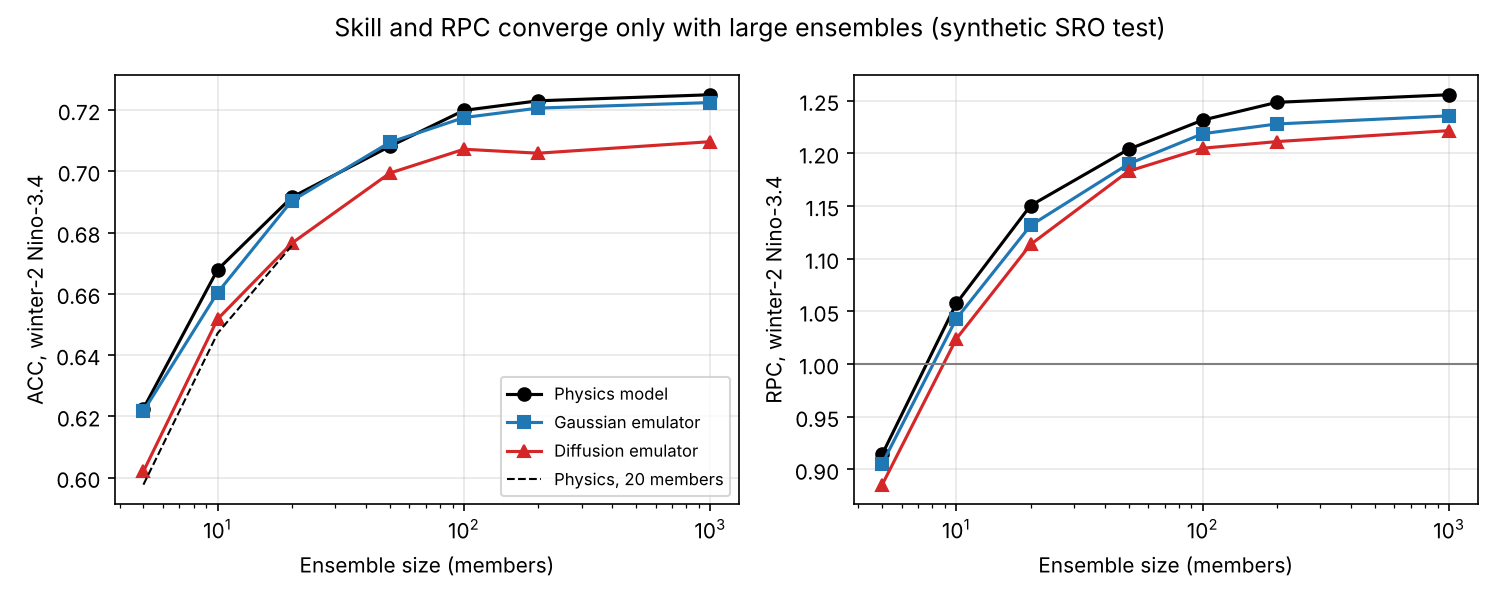
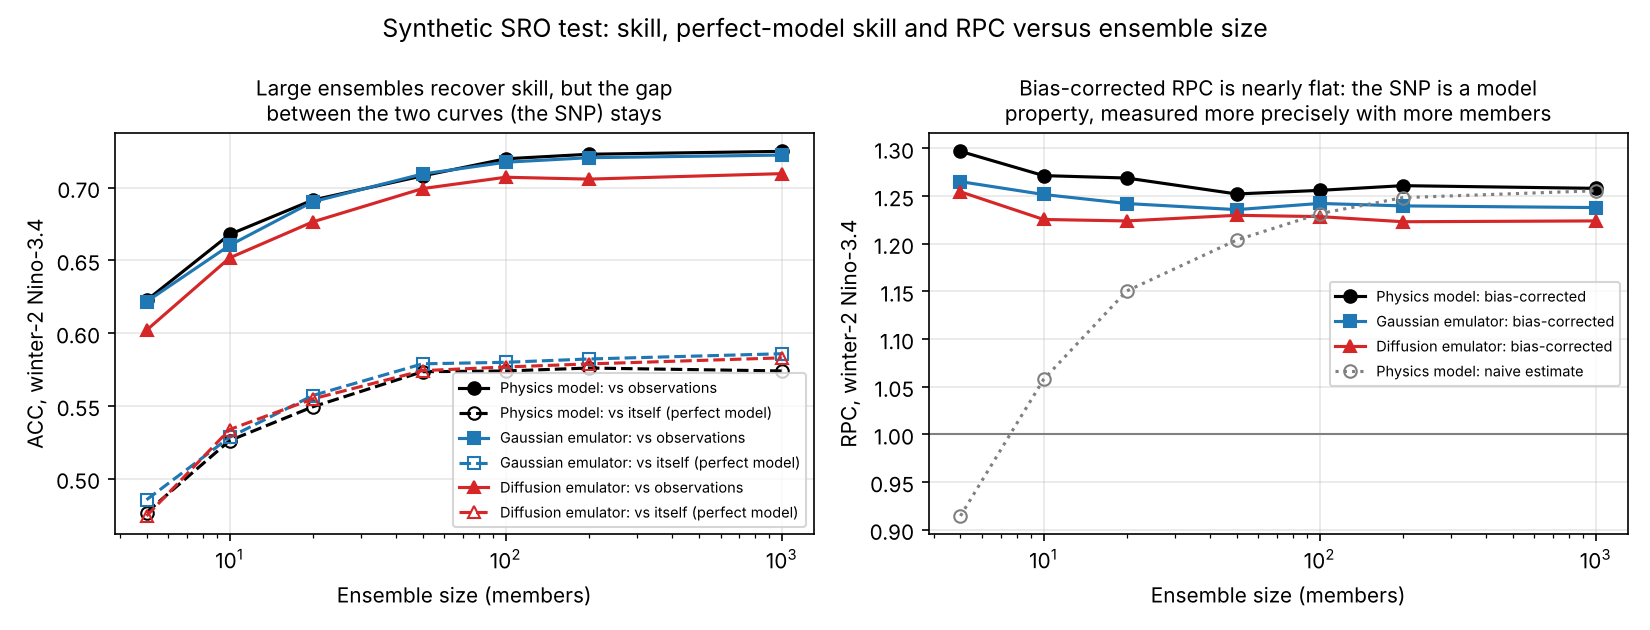
Separate the SNP from small-ensemble sampling bias
Add perfect-model ACC, infinite-ensemble ACC and a bias-corrected RPC.
Large ensembles recover skill but leave the gap between skill against
observations and perfect-model skill; corrected RPC is nearly constant
with ensemble size. Update figure 1 and README.

diff --git a/demo_sro.py b/demo_sro.py
@@ -91,17 +91,19 @@ def main(quick=False, outdir="results"):
         row = {}
         for name, (eT, _) in ens.items():
             e = M.winter_mean(eT, start_month, w)
-            row[name] = {"acc": M.acc(e, ob), "rpc": M.rpc(e, ob), "snr": M.model_snr(e),
-                         "spread_skill": M.spread_skill(e, ob)}
+            row[name] = {"acc": M.acc(e, ob), "acc_perfect": M.perfect_model_acc(e),
+                         "rpc": M.rpc(e, ob), "rpc_corrected": M.rpc_corrected(e, ob),
+                         "snr": M.model_snr(e), "spread_skill": M.spread_skill(e, ob)}
         table[f"winter_{w + 1}"] = row
 
-    print("\nWinter (DJF) Nino-3.4 skill on test years")
-    print(f"{'ensemble':<16}" + "".join(f"{'W' + str(w + 1) + ' ACC':>9}{'RPC':>7}{'SNR':>7}" for w in range(3)))
+    print("\nWinter (DJF) Nino-3.4 on test years. ACC = vs observations; ACCpm = model vs itself;")
+    print("RPCc = bias-corrected RPC. SNP: ACC > ACCpm and RPCc > 1.")
+    print(f"{'ensemble':<16}" + "".join(f"{'W' + str(w + 1) + ' ACC':>9}{'ACCpm':>7}{'RPCc':>7}" for w in range(3)))
     for name in ens:
         line = f"{name:<16}"
         for w in range(3):
             r = table[f"winter_{w + 1}"][name]
-            line += f"{r['acc']:9.2f}{r['rpc']:7.2f}{r['snr']:7.2f}"
+            line += f"{r['acc']:9.2f}{r['acc_perfect']:7.2f}{r['rpc_corrected']:7.2f}"
         print(line)
 
     # ROM fingerprints (same estimator for every dataset)
@@ -161,25 +163,31 @@ def main(quick=False, outdir="results"):
     ob2 = M.winter_mean(obs_T[te], start_month, 1)
     conv = {k: M.convergence(M.winter_mean(v[0], start_month, 1), ob2, sizes, n_boot=50)
             for k, v in ens.items() if k != "physics_20"}
-    conv20 = M.convergence(M.winter_mean(hT[te], start_month, 1), ob2, [5, 10, 20], n_boot=50)
-
-    fig, ax = plt.subplots(1, 2, figsize=(10, 4))
+    fig, ax = plt.subplots(1, 2, figsize=(11, 4.2))
     styles = {f"physics_{n_big}": ("k", "o", "Physics model"),
               f"gaussian_{n_big}": ("tab:blue", "s", "Gaussian emulator"),
               f"diffusion_{n_big}": ("tab:red", "^", "Diffusion emulator")}
     for k, c in conv.items():
         col, mk, lab = styles[k]
-        ax[0].plot(c["size"], c["acc"], color=col, marker=mk, label=lab)
-        ax[1].plot(c["size"], c["rpc"], color=col, marker=mk, label=lab)
-    ax[0].plot(conv20["size"], conv20["acc"], "k--", lw=1, label="Physics, 20 members")
-    for a, yl in zip(ax, ("ACC, winter-2 Nino-3.4", "RPC, winter-2 Nino-3.4")):
+        ax[0].plot(c["size"], c["acc"], color=col, marker=mk, label=f"{lab}: vs observations")
+        ax[0].plot(c["size"], c["acc_perfect"], color=col, marker=mk, ls="--", mfc="none",
+                   label=f"{lab}: vs itself (perfect model)")
+        ax[1].plot(c["size"], c["rpc_corrected"], color=col, marker=mk, label=f"{lab}: bias-corrected")
+    cp = conv[f"physics_{n_big}"]
+    ax[1].plot(cp["size"], cp["rpc"], color="0.5", ls=":", marker="o", mfc="none",
+               label="Physics model: naive estimate")
+    ax[0].set_ylabel("ACC, winter-2 Nino-3.4")
+    ax[1].set_ylabel("RPC, winter-2 Nino-3.4")
+    ax[0].set_title("Large ensembles recover skill, but the gap\nbetween the two curves (the SNP) stays", fontsize=10)
+    ax[1].set_title("Bias-corrected RPC is nearly flat: the SNP is a model\nproperty, measured more precisely with more members", fontsize=10)
+    for a in ax:
         a.set_xscale("log")
         a.set_xlabel("Ensemble size (members)")
-        a.set_ylabel(yl)
         a.grid(alpha=0.3)
     ax[1].axhline(1, color="gray", lw=1)
-    ax[0].legend(fontsize=8)
-    fig.suptitle("Skill and RPC converge only with large ensembles (synthetic SRO test)")
+    ax[0].legend(fontsize=7)
+    ax[1].legend(fontsize=7)
+    fig.suptitle("Synthetic SRO test: skill, perfect-model skill and RPC versus ensemble size")
     fig.tight_layout()
     fig.savefig(os.path.join(outdir, "fig1_convergence.png"), dpi=150)
 

diff --git a/ensosnp/metrics.py b/ensosnp/metrics.py
@@ -25,10 +25,62 @@ def model_snr(ens):
 
 
 def rpc(ens, obs):
+    """Naive RPC: the ensemble-mean variance is used as the signal variance.
+
+    With few members the ensemble mean still contains noise (variance noise/N), so the
+    signal is overestimated and RPC is biased low. Use rpc_corrected for small ensembles.
+    """
     em = ens.mean(axis=1)
     var_signal = em.var()
     var_total = ens.var()  # variance of individual members across starts and members
     return float(acc(ens, obs) / np.sqrt(var_signal / var_total))
+
+
+def signal_variance(ens):
+    """Unbiased estimate of the model's predictable (signal) variance.
+
+    var(ensemble mean) = var(signal) + var(noise)/N, so subtract the noise term.
+    """
+    n = ens.shape[1]
+    em = ens.mean(axis=1)
+    var_noise = ens.var(axis=1, ddof=1).mean()
+    return float(max(em.var() - var_noise / n, 1e-12))
+
+
+def acc_infinite(ens, obs):
+    """Estimate of the ACC an infinitely large ensemble would reach.
+
+    A finite ensemble mean contains residual noise, which lowers its correlation with
+    observations: r_N = r_inf * sqrt(var_signal / var(ensemble mean)). Inverting gives r_inf.
+    """
+    em_var = ens.mean(axis=1).var()
+    return float(acc(ens, obs) * np.sqrt(em_var / signal_variance(ens)))
+
+
+def rpc_corrected(ens, obs):
+    """RPC with the small-ensemble bias removed from both numerator and denominator.
+
+    Uses the infinite-ensemble ACC and the unbiased signal variance, so its expected value
+    does not depend on ensemble size: a larger ensemble measures the SNP more precisely
+    (less scatter), but does not make it go away.
+    """
+    return float(acc_infinite(ens, obs) / np.sqrt(signal_variance(ens) / ens.var()))
+
+
+def perfect_model_acc(ens, max_members=10):
+    """Skill of the model at predicting itself.
+
+    Each of up to max_members members in turn is treated as 'truth' and correlated with
+    the mean of the remaining members. The SNP shows up as acc(ens, obs) > this value.
+    """
+    n = ens.shape[1]
+    if n < 2:
+        return float("nan")
+    vals = []
+    for j in range(min(n, max_members)):
+        rest = np.delete(ens, j, axis=1).mean(axis=1)
+        vals.append(np.corrcoef(rest, ens[:, j])[0, 1])
+    return float(np.mean(vals))
 
 
 def spread_skill(ens, obs):
@@ -42,23 +94,26 @@ def spread_skill(ens, obs):
 def convergence(ens, obs, sizes, n_boot=200, seed=0):
     """ACC and RPC as a function of ensemble size, by resampling members.
 
-    Returns dict of arrays (len(sizes),) with mean ACC, RPC and model SNR.
+    Returns dict of arrays (len(sizes),): ACC against observations, perfect-model ACC
+    (the model predicting itself), naive RPC, bias-corrected RPC and model SNR.
     """
     rng = np.random.default_rng(seed)
     n_members = ens.shape[1]
-    out = {"size": np.asarray(sizes), "acc": [], "rpc": [], "snr": []}
+    keys = ("acc", "acc_perfect", "rpc", "rpc_corrected", "snr")
+    out = {"size": np.asarray(sizes), **{k: [] for k in keys}}
     for n in sizes:
-        a, r, s = [], [], []
+        vals = {k: [] for k in keys}
         for _ in range(n_boot):
             idx = rng.choice(n_members, size=n, replace=n > n_members)
             sub = ens[:, idx]
-            a.append(acc(sub, obs))
-            r.append(rpc(sub, obs))
-            s.append(model_snr(sub))
-        out["acc"].append(np.mean(a))
-        out["rpc"].append(np.mean(r))
-        out["snr"].append(np.mean(s))
-    for k in ("acc", "rpc", "snr"):
+            vals["acc"].append(acc(sub, obs))
+            vals["acc_perfect"].append(perfect_model_acc(sub))
+            vals["rpc"].append(rpc(sub, obs))
+            vals["rpc_corrected"].append(rpc_corrected(sub, obs))
+            vals["snr"].append(model_snr(sub))
+        for k in keys:
+            out[k].append(np.nanmean(vals[k]))
+    for k in keys:
         out[k] = np.asarray(out[k])
     return out
 

diff --git a/README.md b/README.md
@@ -44,32 +44,48 @@ python demo_sro.py           # about 1 min; writes figures and results.json to r
 
 ## Results (full run, winter-mean Niño-3.4 on test years)
 
-| Ensemble | Winter 2 ACC | Winter 2 RPC | Winter 3 ACC | Winter 3 RPC |
-|---|---|---|---|---|
-| Physics, 20 members | 0.68 | 1.13 | 0.42 | 1.08 |
-| Physics, 1000 members (reference) | 0.72 | 1.26 | 0.52 | 1.53 |
-| Gaussian emulator, 1000 members | 0.72 | 1.24 | 0.53 | 1.52 |
-| Diffusion emulator, 1000 members | 0.71 | 1.22 | 0.51 | 1.43 |
+ACC = ensemble mean vs observations; perfect-model ACC = the model predicting itself (one
+member as truth, the rest as forecast); RPC = bias-corrected ratio of predictable components.
+An SNP means ACC > perfect-model ACC and RPC > 1.
+
+| Ensemble | W2 ACC | W2 perfect-model ACC | W2 RPC | W3 ACC | W3 perfect-model ACC | W3 RPC |
+|---|---|---|---|---|---|---|
+| Physics, 20 members | 0.68 | 0.55 | 1.25 | 0.42 | 0.31 | 1.53 |
+| Physics, 1000 members (reference) | 0.72 | 0.55 | 1.26 | 0.52 | 0.33 | 1.54 |
+| Gaussian emulator, 1000 members | 0.72 | 0.61 | 1.24 | 0.53 | 0.40 | 1.54 |
+| Diffusion emulator, 1000 members | 0.71 | 0.61 | 1.22 | 0.51 | 0.33 | 1.44 |
 
 What this shows:
 
-1. **The SNP is real in the test bed.** With 1000 members, RPC reaches 1.26 in winter 2 and
-   1.53 in winter 3. The model predicts the observations better than it predicts itself.
-2. **Small ensembles hide skill and understate the SNP.** With 20 members, winter-3 skill is
-   0.42 instead of 0.52, and the RPC is underestimated too (`results/fig1_convergence.png`).
-3. **Emulators trained on 20 members recover the 1000-member answer.** Both emulators
-   reproduce the large-ensemble skill and RPC from held-out initial states.
-4. **The ROM fingerprint catches fidelity errors.** With only 16 principal components, both
+1. **The SNP is real in the test bed.** The model predicts the observations (ACC 0.72 in
+   winter 2) better than it predicts itself (0.55). RPC is 1.26 in winter 2 and 1.54 in
+   winter 3.
+2. **Large ensembles reduce the damage the SNP does to skill, but not the SNP itself.**
+   Because each member carries a weak signal, many members are needed to average out the
+   noise: winter-3 skill rises from 0.42 with 20 members to 0.52 with 1000. Perfect-model skill
+   rises too, so the gap between the two curves stays (`results/fig1_convergence.png`, left).
+   The SNP comes from the model's physics (here, too much damping and noise); more members
+   estimate it more precisely but do not remove it. That is why the correction step is needed.
+3. **Naive RPC is biased low for small ensembles.** Using the ensemble-mean variance as the
+   signal variance, and the finite-ensemble ACC, both understate the SNP when there are few
+   members: the naive winter-2 RPC rises from 0.91 at 5 members to 1.26 at 1000. Correcting
+   both terms for residual noise (`metrics.rpc_corrected`) gives a nearly constant RPC,
+   between 1.25 and 1.30 at every ensemble size (`results/fig1_convergence.png`, right).
+4. **Emulators trained on 20 members recover the 1000-member answer.** Both emulators
+   reproduce the large-ensemble skill and RPC from held-out initial states. The Gaussian
+   emulator's members are slightly too predictable (perfect-model ACC 0.61 vs 0.55 in winter 2
+   and 0.40 vs 0.33 in winter 3); the diffusion emulator matches winter 3 better.
+5. **The ROM fingerprint catches fidelity errors.** With only 16 principal components, both
    emulators matched skill and RPC but underestimated the noise amplitudes σT and σh by about
    one third, because PCA truncation smoothed month-to-month variability. With 48 components
    (99.8% of variance) the fingerprint matches the physics model
    (`results/fig2_rom_fingerprint.png`). Skill scores alone would not have revealed this.
-5. **State-dependent noise remains a challenge.** In the physics model, winter-1 spread is
+6. **State-dependent noise remains a challenge.** In the physics model, winter-1 spread is
    1.7 times larger after warm starts than after cold starts. The Gaussian benchmark cannot
    represent this (ratio 1.00 by construction). The diffusion emulator learns some of it
    (1.13) but not all. This is the main target for improvement (larger network, PyTorch,
    more training data).
-6. **Correction step.** An RPC-based rescaling estimated on training years raises the
+7. **Correction step.** An RPC-based rescaling estimated on training years raises the
    winter-2 ensemble-mean signal from 0.84 to 1.08 °C, closer to the amplitude implied by the
    observed predictable signal. In this toy case it does not change RMSE (1.02 → 1.02),
    as expected for a variance-matching (not MSE-minimizing) adjustment. Its value is in
